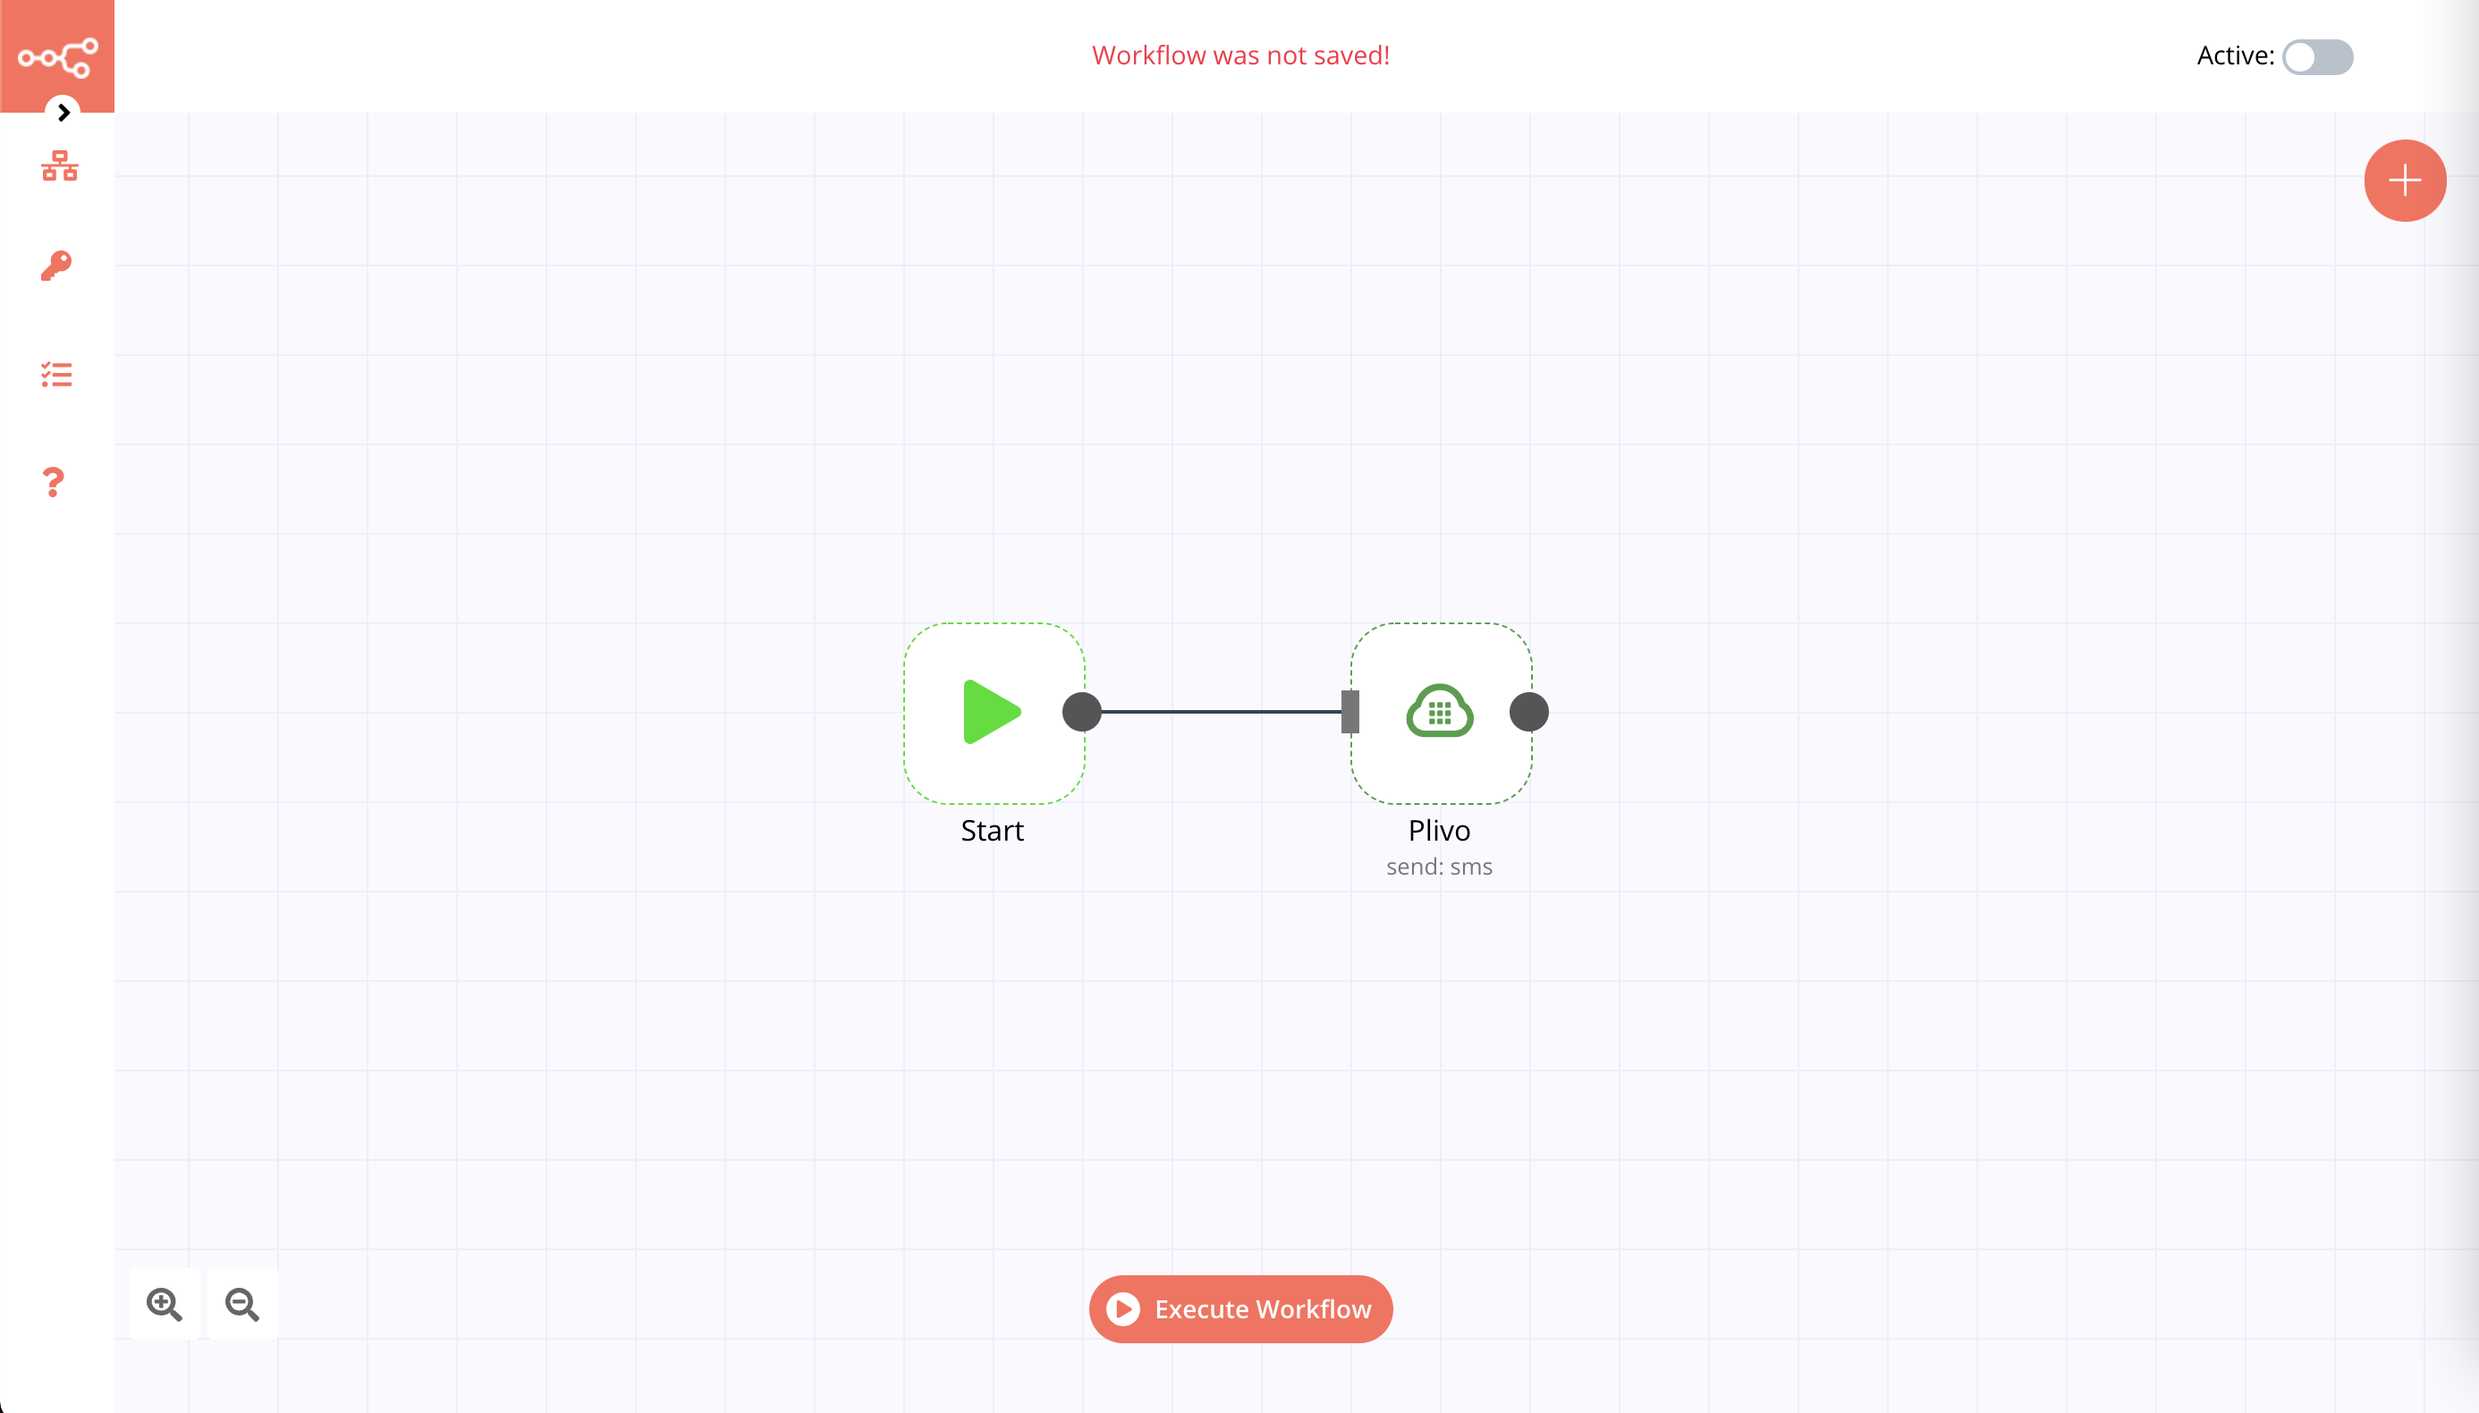
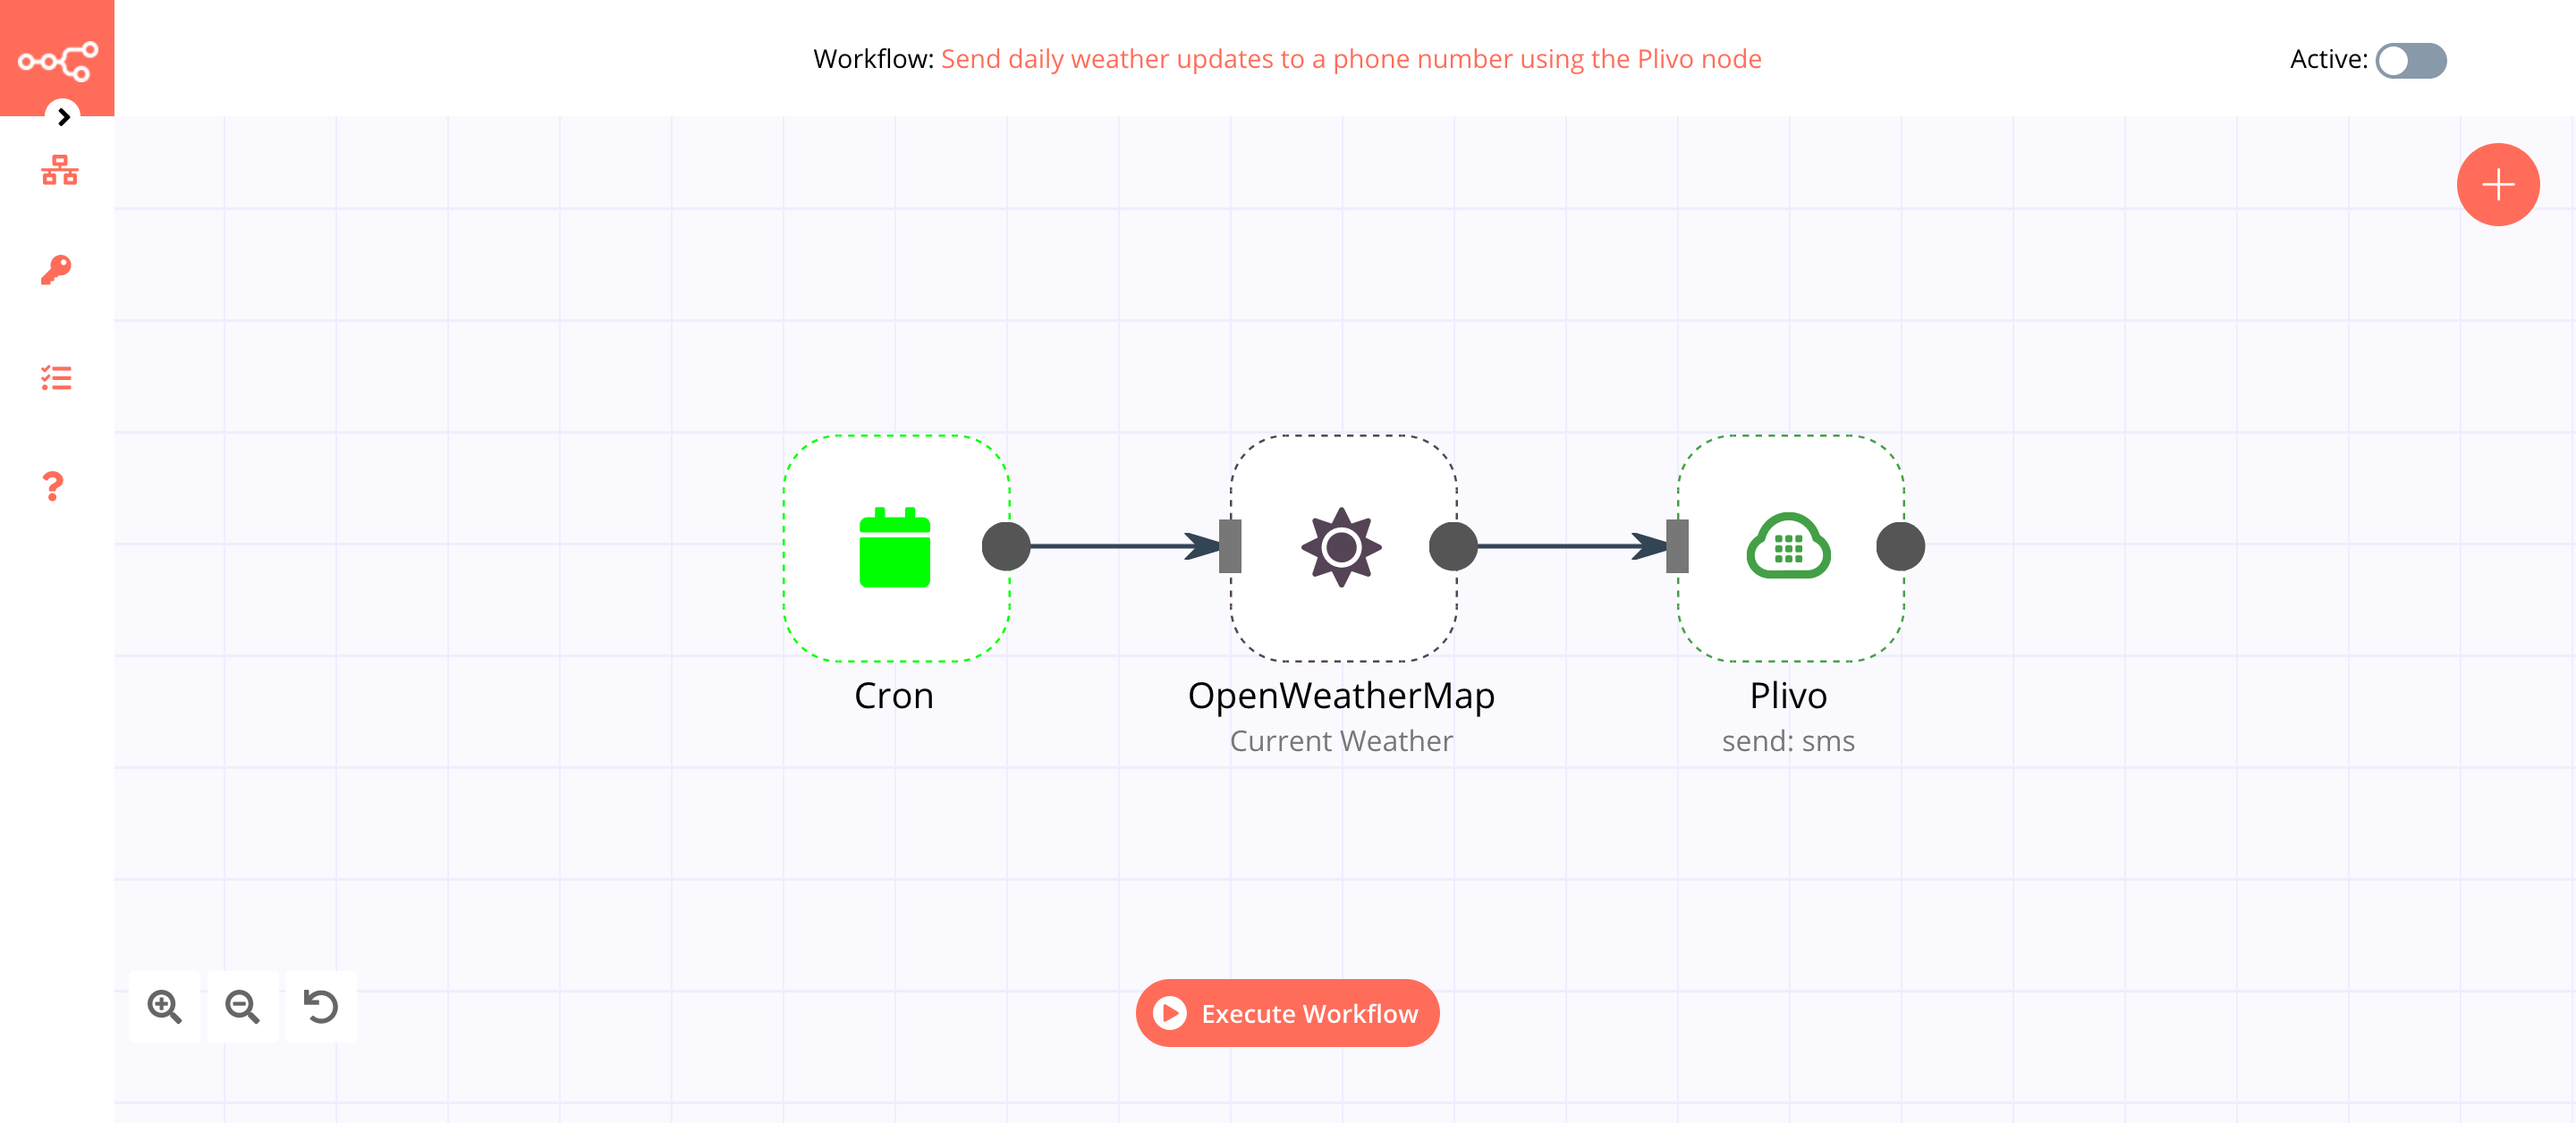
⚡ Improved documentation for the Plivo node

diff --git a/docs/nodes/nodes-library/nodes/Plivo/README.md b/docs/nodes/nodes-library/nodes/Plivo/README.md
@@ -5,7 +5,7 @@ description: Learn how to use the Plivo node in n8n
 
 # Plivo
 
-[Plivo](https://www.plivo.com/) is a cloud communications platform as a service company. Plivo allows you to add SMS, MMS, & Voice calling functionality within your apps programmatically.
+[Plivo](https://www.plivo.com/) is a cloud communications platform as a service company that allows you to add SMS, MMS, & Voice calling functionality within your apps programmatically.
 
 ::: tip 🔑 Credentials
 You can find authentication information for this node [here](../../../credentials/Plivo/README.md).
@@ -14,35 +14,69 @@ You can find authentication information for this node [here](../../../credential
 ## Basic Operations
 
 ::: details SMS
-- Send SMS message
+- Send an SMS message
 :::
 
 ::: details MMS
-- Send MMS message
+- Send an MMS message (US/Canada only)
 :::
 
 ::: details Call
-- Make a call
+- Make a voice call
 :::
 
 ## Example Usage
 
-This workflow allows you to send an SMS message to a specified phone number from your Plivo number. Also, you can use the Plivo node to send an MMS message or to make a call to a specified number and leave a text-to-speech message using [Plivo XML](https://www.plivo.com/docs/voice/xml/speak#play-a-message). You can also find the [workflow](https://n8n.io/workflows/1002) on the website. This example usage workflow would use the following two nodes.
-- [Start](../../core-nodes/Start/README.md)
+This workflow allows you to send daily weather updates via an SMS message using the Plivo node. You can also find the [workflow](https://n8n.io/workflows/1005) on n8n.io. This example usage workflow uses the following nodes.
+- [Cron](../../core-nodes/Cron/README.md)
+- [OpenWeatherMap](../../nodes/OpenWeatherMap/README.md)
 - [Plivo]()
 
 The final workflow should look like the following image.
 
 ![A workflow with the Plivo node](./workflow.png)
 
-### 1. Start node
+### 1. Cron node
 
-The start node exists by default when you create a new workflow.
+The Cron node will trigger the workflow daily at 9 AM.
 
-### 2. Plivo node
+1. Click on ***Add Cron Time***.
+2. Set hours to 9 in the ***Hour*** field.
+3. Click on ***Execute Node*** to run the node.
+
+In the screenshot below, you will notice that the Cron node is configured to trigger the workflow every day at 9 AM.
+
+![Using the Cron node to trigger the workflow daily at 9 am](./Cron_node.png)
+
+### 2. OpenWeatherMap node (Current Weather)
+
+This node will return data about the current weather in Berlin. To get the weather updates for your city, you can enter the name of your city instead.
+
+1. First of all, you'll have to enter credentials for the OpenWeatherMap node. You can find out how to do that [here](../../../credentials/OpenWeatherMap/README.md).
+2. Enter `berlin` in the ***City*** field.
+3. Click on ***Execute Node*** to run the node.
+
+In the screenshot below, you will notice that the node returns data about the current weather in Berlin.
+
+![Using the OpenWeatherMap node to get weather updates for Berlin](./OpenWeatherMap_node.png)
+
+### 3. Plivo node (send: sms)
+
+This node will send an SMS with the weather update, which was sent by the previous node.
 
 1. First of all, you'll have to enter credentials for the Plivo node. You can find out how to do that [here](../../../credentials/Plivo/README.md).
-2. Enter the phone number from which you'll be sending the message in the *From* field.
-3. Enter the phone number to which you'll be sending the message in the *To* field.
-4. Enter you message in the *Message* field.
-5. Click on *Execute Node* to run the workflow.
+2. Enter a Plivo phone number in the ***From*** field.
+3. Enter the receiver's phone number in the ***To*** field.
+4. Click on the gears icon next to the ***Message*** field and click on ***Add Expression***.
+::: v-pre
+5. Enter the following message in the ***Expression*** field: `Hey! The temperature outside is {{$node["OpenWeatherMap"].json["main"]["temp"]}}°C.`.
+6. Click on ***Execute Node*** to run the node.
+:::
+
+In the screenshot below, you will notice that the node sends an SMS to the phone number that we specified with the weather update.
+
+![Using the Plivo node to send weather updates via SMS](./Plivo_node.png)
+
+::: tip 💡 Activate workflow for production
+You'll need to save the workflow and then click on the Activate toggle on the top right of the screen to activate the workflow. Your workflow will then be triggered as specified by the settings in the Cron node.
+:::

diff --git a/docs/nodes/credentials/Plivo/README.md b/docs/nodes/credentials/Plivo/README.md
@@ -14,8 +14,16 @@ Create a [Plivo](https://console.plivo.com/accounts/register/) account.
 
 ## Using Access Token
 
-1. Access your [Plivo console](https://console.plivo.com/dashboard/).
-4. You will find your Auth ID and Auth token under `Accounts and Payments` section on this page.
-5. Use the Auth ID and Auth token with your Plivo node credentials in n8n.
+1. Open your Plivo [console](https://console.plivo.com/dashboard/).
+2. Copy the displayed Auth ID under the ***Account and Payments*** section.
+3. Enter a name for your credentials in the ***Credentials Name*** field in the 'Plivo API' credentials in n8n.
+4. Paste the Auth ID in the ***Auth ID*** field in the 'Plivo API' credentials in n8n.
+5. Copy the Auth Token displayed on your Plivo console.
+6. Paste the Auth Token in the ***Auth Token*** field in the 'Plivo API' credentials in n8n.
+7. Click on the ***Create*** button to create your credentials.
 
-![Get Plivo credentials](./using-access-token.png)
+The following video demonstrates the steps mentioned above.
+
+<div class="video-container">
+<iframe width="840" height="472.5" src="https://www.youtube.com/embed/Zui5fzFtO1E" frameborder="0" allow="accelerometer; autoplay; clipboard-write; encrypted-media; gyroscope; picture-in-picture" allowfullscreen></iframe>
+</div>
